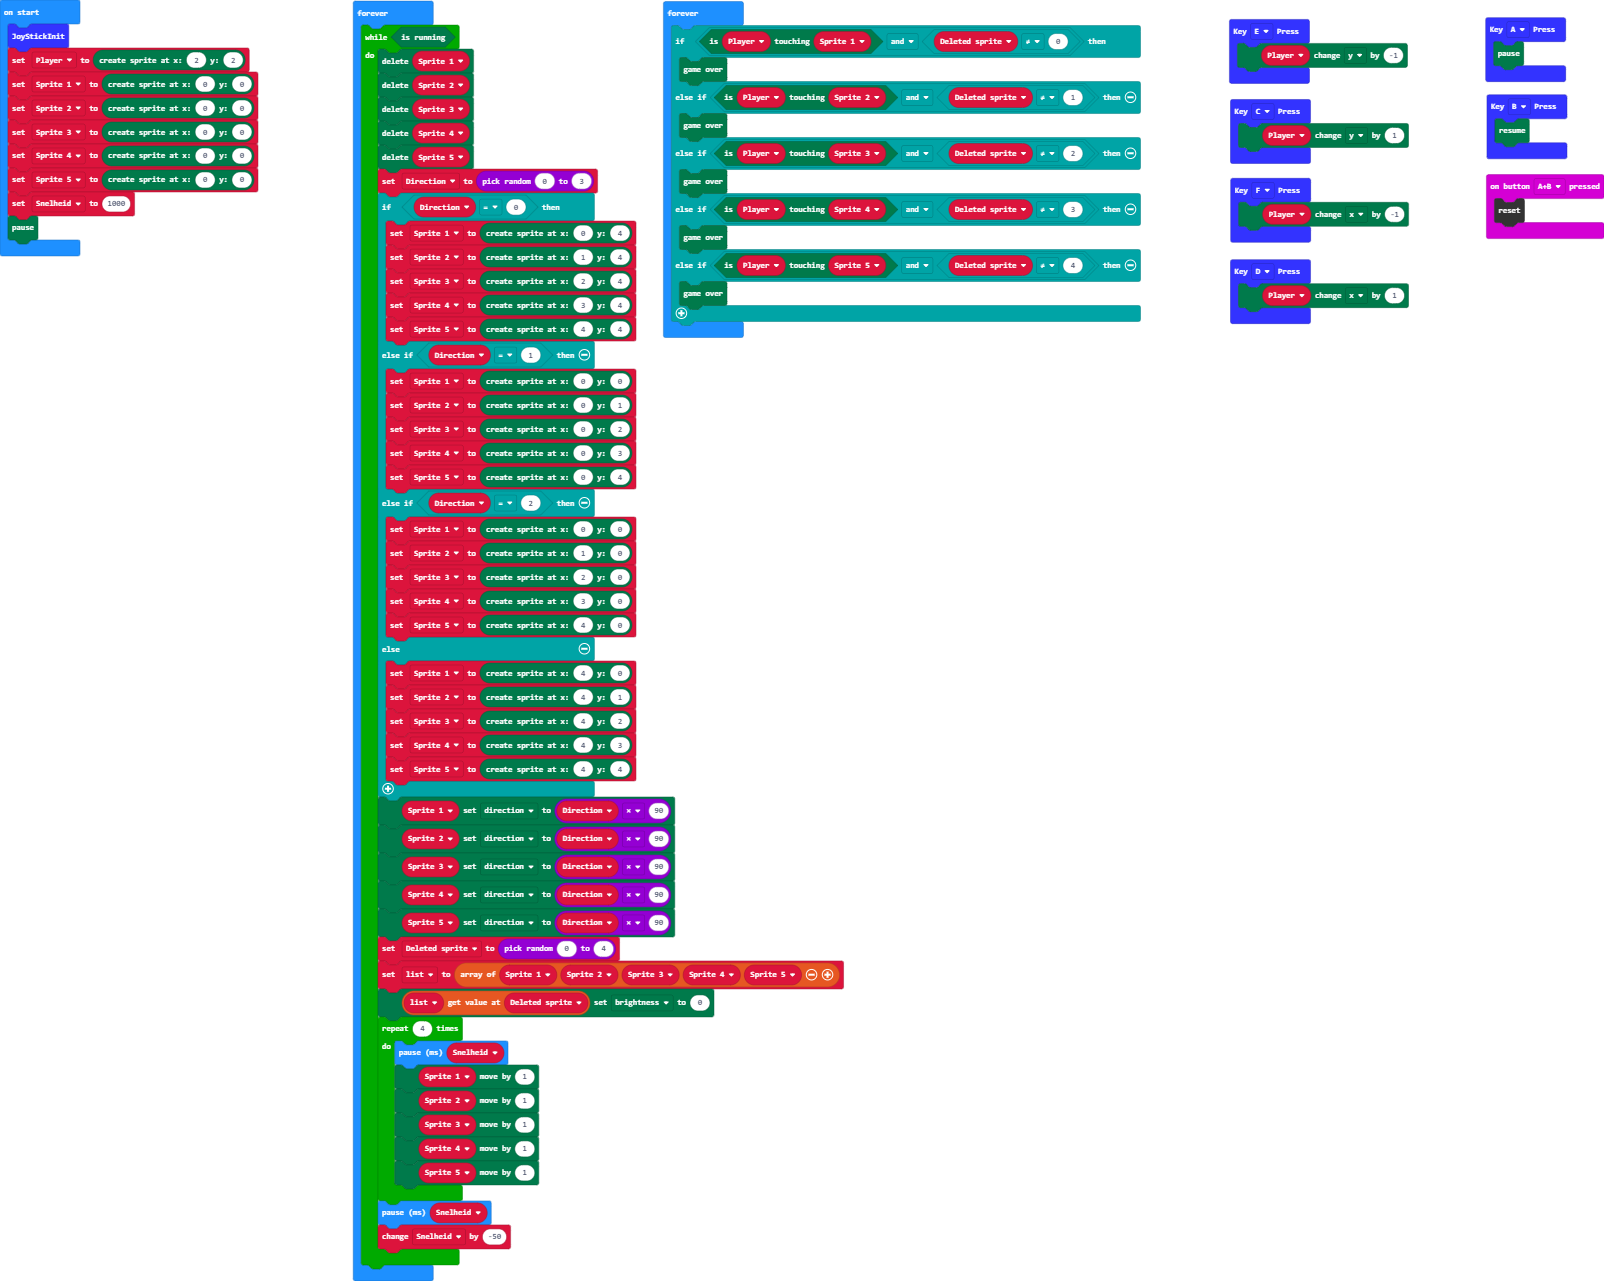
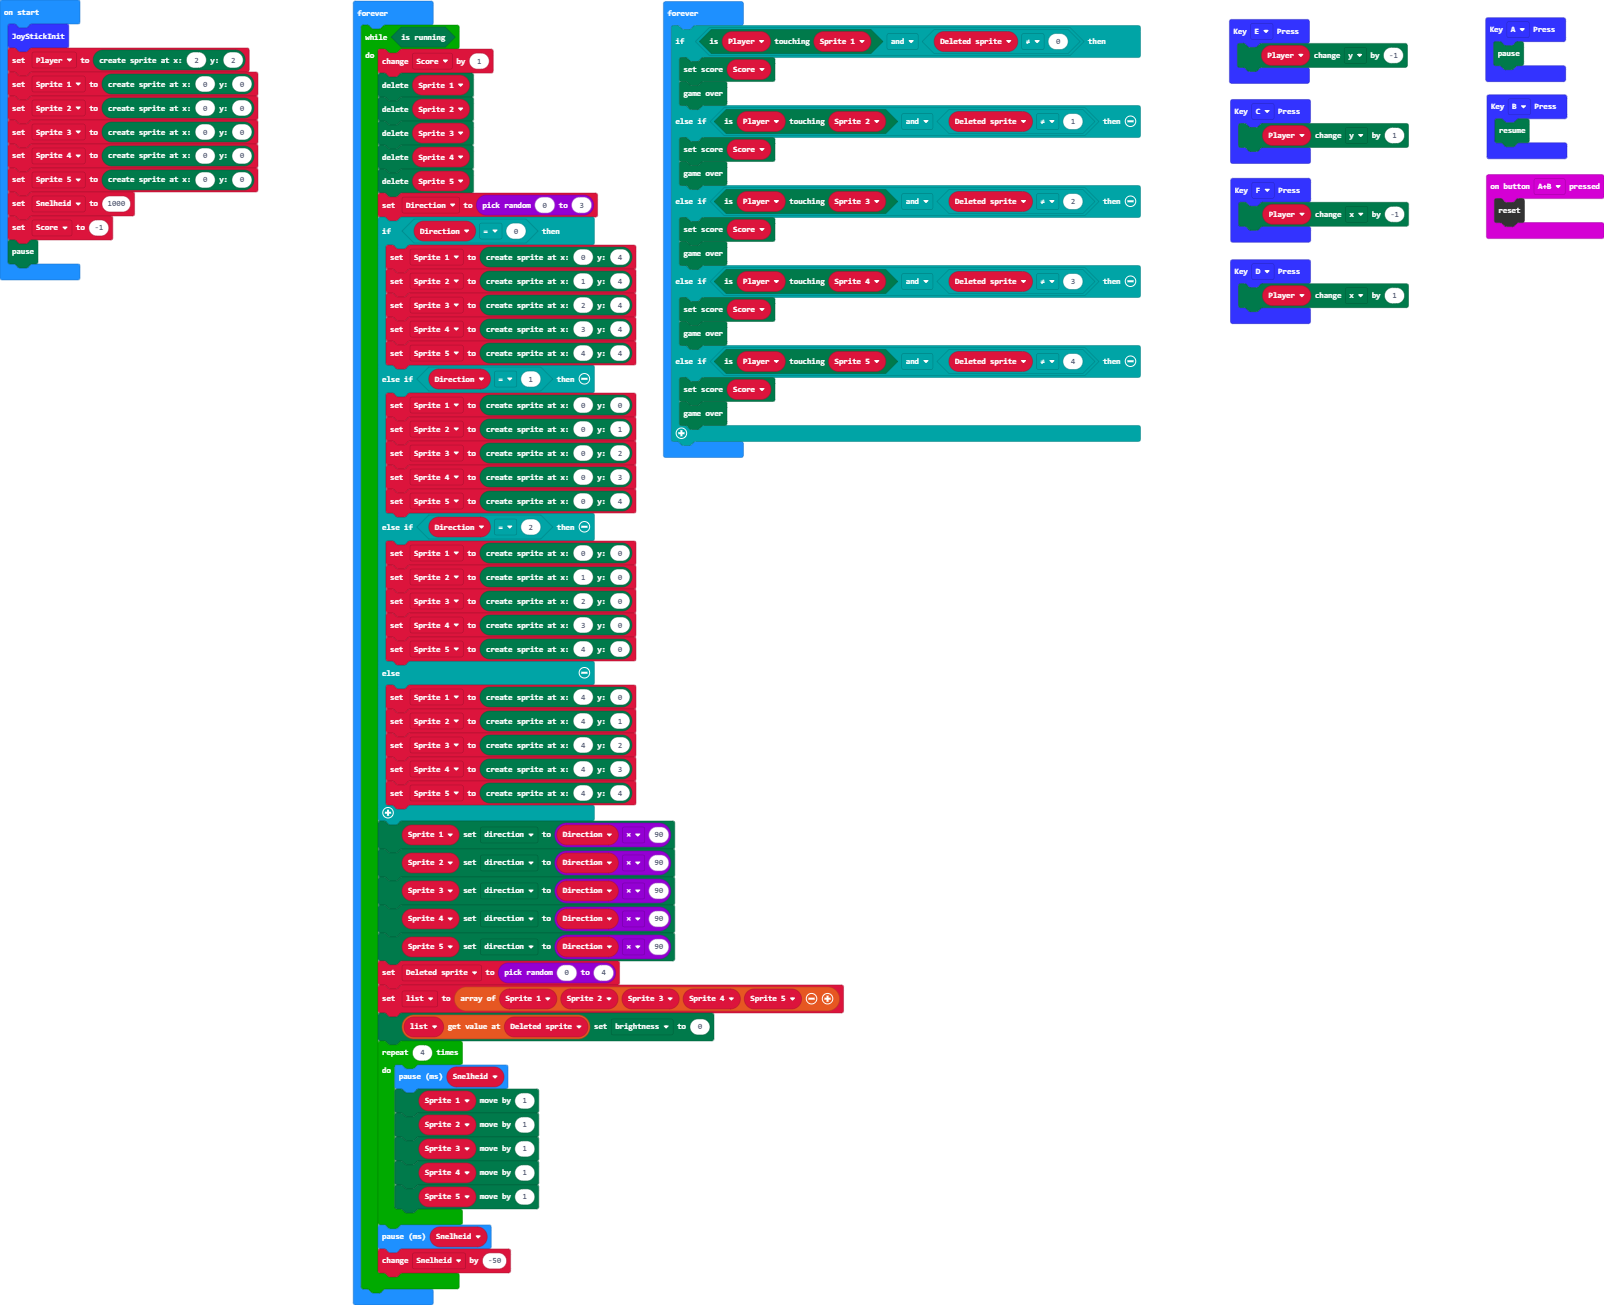
Added score
(cherry picked from commit e2d31b57cc8397918b42498dfee49704bfe69cb3)

diff --git a/main.ts b/main.ts
@@ -31,9 +31,11 @@ let Sprite_3 = game.createSprite(0, 0)
 let Sprite_4 = game.createSprite(0, 0)
 let Sprite_5 = game.createSprite(0, 0)
 let Snelheid = 1000
+let Score = -1
 game.pause()
 basic.forever(function () {
     while (game.isRunning()) {
+        Score += 1
         Sprite_1.delete()
         Sprite_2.delete()
         Sprite_3.delete()
@@ -87,14 +89,19 @@ basic.forever(function () {
 })
 basic.forever(function () {
     if (Player.isTouching(Sprite_1) && Deleted_sprite != 0) {
+        game.setScore(Score)
         game.gameOver()
     } else if (Player.isTouching(Sprite_2) && Deleted_sprite != 1) {
+        game.setScore(Score)
         game.gameOver()
     } else if (Player.isTouching(Sprite_3) && Deleted_sprite != 2) {
+        game.setScore(Score)
         game.gameOver()
     } else if (Player.isTouching(Sprite_4) && Deleted_sprite != 3) {
+        game.setScore(Score)
         game.gameOver()
     } else if (Player.isTouching(Sprite_5) && Deleted_sprite != 4) {
+        game.setScore(Score)
         game.gameOver()
     }
 })
